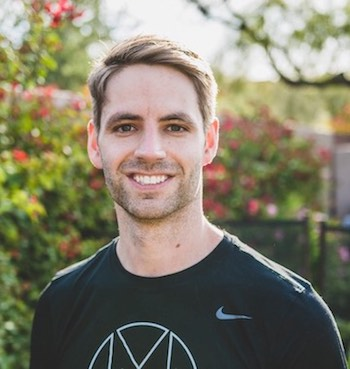
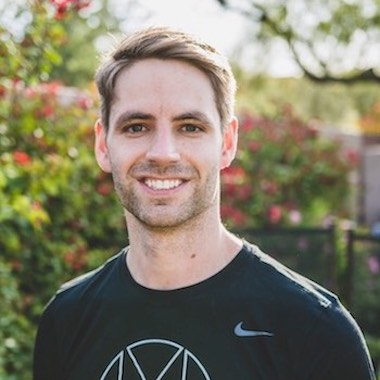
adjust ethan's headshot image size
add dawn to team section

diff --git a/_team-members/dawn.md b/_team-members/dawn.md
@@ -1,0 +1,7 @@
+---
+title: Dawn
+position: 5
+credentials: Occupational Therapist
+image: dawn
+bio: Dawn’s passion for Occupational Therapy stems from the need to help her mom’s arthritic hands from cutting hair for 20 years and counting! Once Dawn found that there was so much more to Occupational therapy than just meets the hand, she dived into pediatrics/ geriatrics and loved every moment of it. On her free time, when she’s not lifting wrists and fingers, she enjoys lifting weights, lifting her nephew, lifting pages in books, and lifting lids when she’s cooking.
+---
